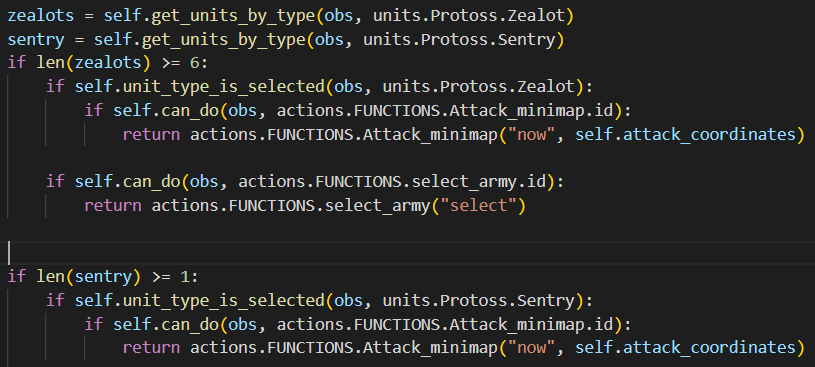
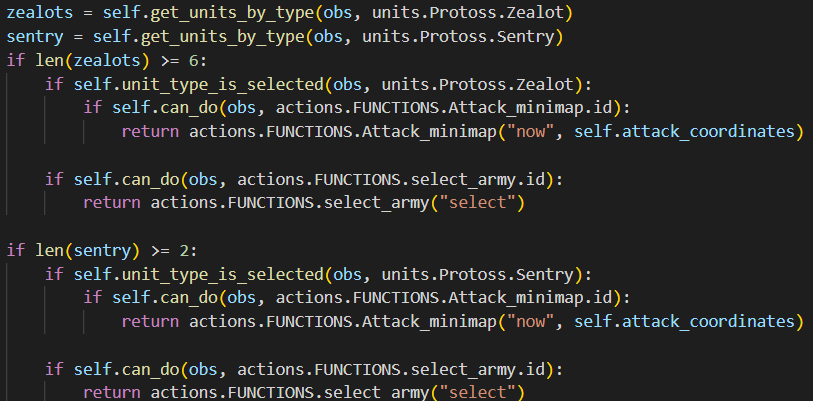
Ready

Changed region(s): [[0.0, 0.0, 1.0, 0.3896], [0.0, 0.4196, 1.0, 0.8392], [0.0308, 0.8692, 1.0, 1.0]]

diff --git a/Smart_Protoss.py b/Smart_Protoss.py
@@ -5,15 +5,14 @@ from pysc2.lib import actions, features, units
 from absl import app
 import random
 
-
 class Protoss_Agent(base_agent.BaseAgent):
 
-    def __init__(self):
+    def __init__(self):                                     #Initialize a variable
         super(Protoss_Agent, self).__init__()
         self.first_pylon = None
         self.attack_coordinates = None
 
-    def unit_type_is_selected(self, obs, unit_type):
+    def unit_type_is_selected(self, obs, unit_type):        #simply sintax of unit type selected check
         if (len(obs.observation.single_select) > 0 and obs.observation.single_select[0].unit_type == unit_type):
             return True
 
@@ -22,16 +21,16 @@ class Protoss_Agent(base_agent.BaseAgent):
 
         return False
 
-    def get_units_by_type(self, obs, unit_type):
+    def get_units_by_type(self, obs, unit_type):            #simply sintax of unit selection by type
         return [unit for unit in obs.observation.feature_units if unit.unit_type == unit_type]
 
-    def can_do(self, obs, action):
+    def can_do(self, obs, action):                          #simply sintax of available actions check
         return action in obs.observation.available_actions
 
     def step(self, obs):
         super(Protoss_Agent, self).step(obs)
 
-        if obs.first():
+        if obs.first():                                     #Observes environment and determines enemy locations
             player_y, player_x = (obs.observation.feature_minimap.player_relative == features.PlayerRelative.SELF).nonzero()
             xmean = player_x.mean()
             ymean = player_y.mean()
@@ -46,7 +45,7 @@ class Protoss_Agent(base_agent.BaseAgent):
         minerals = obs.observation.player.minerals
         vespene = obs.observation.player.vespene
         
-        #Attack
+        #Attacking
         zealots = self.get_units_by_type(obs, units.Protoss.Zealot)
         sentry = self.get_units_by_type(obs, units.Protoss.Sentry)
         if len(zealots) >= 6:
@@ -57,8 +56,7 @@ class Protoss_Agent(base_agent.BaseAgent):
             if self.can_do(obs, actions.FUNCTIONS.select_army.id):
                 return actions.FUNCTIONS.select_army("select")
         
-        
-        if len(sentry) >= 1:
+        if len(sentry) >= 2:
             if self.unit_type_is_selected(obs, units.Protoss.Sentry):
                 if self.can_do(obs, actions.FUNCTIONS.Attack_minimap.id):
                     return actions.FUNCTIONS.Attack_minimap("now", self.attack_coordinates)
@@ -66,8 +64,7 @@ class Protoss_Agent(base_agent.BaseAgent):
             if self.can_do(obs, actions.FUNCTIONS.select_army.id):
                 return actions.FUNCTIONS.select_army("select")
 
-
-        #Pylon
+        #Cybernetics Core Creation
         gates = self.get_units_by_type(obs, units.Protoss.Gateway)
 
         cybernetic = self.get_units_by_type(obs, units.Protoss.CyberneticsCore)
@@ -77,7 +74,8 @@ class Protoss_Agent(base_agent.BaseAgent):
                     x = random.randint(0, 83)
                     y = random.randint(0, 83)
                     return actions.FUNCTIONS.Build_CyberneticsCore_screen("now", (x, y))
-          
+
+        #Pylons Creation
         pylons = self.get_units_by_type(obs, units.Protoss.Pylon)
         if len(pylons) < 5 and minerals >= 100:
             if self.unit_type_is_selected(obs, units.Protoss.Probe):
@@ -86,14 +84,15 @@ class Protoss_Agent(base_agent.BaseAgent):
                     y = random.randint(0, 83)
                     return actions.FUNCTIONS.Build_Pylon_screen("now", (x, y))
 
-        #Gateways
+        #Gateways Creation
         if len(gates) < 2 and minerals >= 150:
             if self.unit_type_is_selected(obs, units.Protoss.Probe):
                 if self.can_do(obs, actions.FUNCTIONS.Build_Gateway_screen.id):
                     x = random.randint(0, 83)
                     y = random.randint(0, 83)
                     return actions.FUNCTIONS.Build_Gateway_screen("now", (x, y))
-
+        
+        #Assimilators Creation
         gas = self.get_units_by_type(obs, units.Protoss.Assimilator)
         if len(gates) == 2 and minerals >= 75 and len(gas) == 0:
             if self.unit_type_is_selected(obs, units.Protoss.Probe):
@@ -102,7 +101,7 @@ class Protoss_Agent(base_agent.BaseAgent):
                     y = random.randint(0, 83)
                 return actions.FUNCTIONS.Build_Assimilator_screen("now", (x, y))
         
-        #Units                   
+        #Train Zealots and Sentrys                   
         if len(gates) == 2 and minerals >= 100:
             if self.unit_type_is_selected(obs, units.Protoss.Gateway):
                 zealots = self.get_units_by_type(obs, units.Protoss.Zealot)
@@ -116,7 +115,7 @@ class Protoss_Agent(base_agent.BaseAgent):
         if len(cybernetic) == 1 and vespene >= 100 and minerals >= 50:
             if self.unit_type_is_selected(obs, units.Protoss.Gateway):
                 sentry = self.get_units_by_type(obs, units.Protoss.Sentry)
-                if len(sentry) <= 1:
+                if len(sentry) <= 2:
                     if self.can_do(obs, actions.FUNCTIONS.Train_Sentry_quick.id):
                         return actions.FUNCTIONS.Train_Sentry_quick("now")
 
@@ -124,10 +123,7 @@ class Protoss_Agent(base_agent.BaseAgent):
             return actions.FUNCTIONS.select_point("select_all_type", (z.x, z.y))
             
         #Select Probe units 
-
-        probes = self.get_units_by_type(obs, units.Protoss.Probe)
-        print(len(probes))
-        
+        probes = self.get_units_by_type(obs, units.Protoss.Probe)        
         if len(probes) > 0:
             probe = random.choice(probes)
             return actions.FUNCTIONS.select_point("select_all_type", (probe.x, probe.y))
@@ -142,12 +138,12 @@ def main(unused):
             with sc2_env.SC2Env(
                 map_name ="Simple64",                                                       #Game map
                 players=[sc2_env.Agent(sc2_env.Race.protoss),                               #Agent race
-                         sc2_env.Bot(sc2_env.Race.random, sc2_env.Difficulty.easy)],   #Difficulty
+                         sc2_env.Bot(sc2_env.Race.random, sc2_env.Difficulty.easy)],        #Difficulty
                 agent_interface_format = features.AgentInterfaceFormat(
                     feature_dimensions = features.Dimensions(screen=84, minimap=64),        #Screen resolution
                     use_feature_units = True
                 ),
-                step_mul = 16,                                                               #Game Speed
+                step_mul = 16,                                                              #Game Speed
                 game_steps_per_episode = 0,                                                 #Game length
                 visualize=True
             ) as env:
@@ -169,5 +165,3 @@ def main(unused):
 
 if __name__ == "__main__":
     app.run(main)
-
-    #https://a01701249.medium.com/pysc2-protoss-sentry-and-zealot-agent-87e0f0f1388f

diff --git a/README.md b/README.md
@@ -66,11 +66,11 @@ These functions are complementary for the agent and will make its life more easy
 
 3. get_units_by_type returns a list with instances of the input unit or units.
 
-![U_Type](./Images/Get_units_type.png)
+![Get_U](./Images/Get_units_type.png)
 
 4. can_do is a very important function, because it will check if the input action is available or not.
 
-![U_Type](./Images/Can_do.png)
+![Can_do](./Images/Can_do.png)
 
 ### 6. Completing Step
 As its name inquires, we´ll be completing our Step function
@@ -80,11 +80,20 @@ Now that we know were we are, it's easy to know where the enemy is, so we just s
 
 Resource gathering and knowledge of how much of them we have is important for creating almost everything, so we simply define that variables to obtain a counter of minerals and vespene's.
 
-![Imports](./Images/Step_1.png)
+![Steps](./Images/Step_1.png)
 
-#### Pylons
+### Probes
+> Used to gather resources and Warp Protoss structures.
 
-![Imports](./Images/Pylon.jpg)
+![Probe](./Images/Probe.jpg)
+
+I would consider Probes to be the most important unit in the game, withouth them we cant do anything. And in order for us to do anything, we need to verify that they are selected.
+
+![Probe_code](./Images/Probes_code.png)
+
+### Pylons
+
+![Pylon](./Images/Pylon.jpg)
 
 Because we are playing as Protoss, we'll need to use Pylons.
 The game describes Pylons as: 
@@ -92,76 +101,77 @@ The game describes Pylons as:
 
 Basically, Pylons are power outlets, indispensable for more powerfull structures.
 
-![Imports](./Images/Pylon_code.png)
+![Pylon_code](./Images/Pylon_code.png)
 
 I like the number 5, so until we have 5 built Pylons and have more than 100 minerals (Which is the price of building a Pylon), we'll check if a Prove is selected in order for it to being able to Warp Pylons. If we have it selected, our random function comes in handy to produce possible values in which the Pylon will be warped. 
 
 
-#### Gateways and Assimilators
+### Gateways and Assimilators
 Gateways are described in game as:
 > Warps in Protoss ground units
 
-![Imports](./Images/Gateway.jpg)
+![Gateway](./Images/Gateway.jpg)
 
 While Assimilators are described as:
 > Protoss structure used for harvesting Vespene Gas
 
-![Imports](./Images/Assimilator.jpg)
+![Assimilator](./Images/Assimilator.jpg)
 
-![Imports](./Images/G_A.png)
+![G_A_code](./Images/G_A.png)
 
 gates variable will return a list of Gateway objects. Then, we'll check if we have 2 gateways built and ≥ 150 minerals (Cost of the Gateway). Once we have resources, We check if a Probe is selected in order to Warp the Gateway in a random location.
 
 Nothing changes substancially for warping an Assimilator other than the cost of the minerals for warping it (Should be 75 at least).
 
-#### Cybernetics Core
+### Cybernetics Core
 
-![Imports](./Images/Cy_core.jpg)
+![Cybernetics](./Images/Cy_core.jpg)
 
 In order to use more than just Zealots for attacking the enemy player, we need to build at least one Cybernetics Core.
 The steps are the same as all of the avobe, except the cost to build the Cybernetics Core, wich sould be at least 150 minerals worth.
 
-![Imports](./Images/Cy_code.png)
+![Cybernetics_code](./Images/Cy_code.png)
 
-#### Zealots and Sentrys
+### Zealots and Sentrys
 Now that we have all of our Structures ready, we can start training Zealots and Sentrys.
 
 In game description of Zealots include but its not limitted to:
 > Can attack ground units
 
-![Imports](./Images/Zealot.jpg)
+![Zealot](./Images/Zealot.jpg)
 
 In the other hand, Sentrys are described as:
 > Ergy manipulator units. Can use ForceField, Guardian Shield and Hallucination.
 
-![Imports](./Images/Sentry.jpg)
+![Sentry](./Images/Sentry.jpg)
 
 Pretty cool, right?
 
-![Imports](./Images/Z_S_code.png)
+![Z_S_code](./Images/Z_S_code.png)
 
 We first check for our 2 gateways and that we at least have 100 minerals, we then procede to verify that a gateway is indeed selected, if thats not the case, we select a random gateway. We should limit our zealots to a number that we want, in this case i liked 6 so each gateway will only Warp 6 Zealots.
 
-Same story with the Sentrys but this time, both our Minerals and Vespene will be taken in consideration. Sentrys are cool but we might not need so many of them, so I choose to limit Sentrys to only 1 per Gateway.
+Same story with the Sentrys but this time, both our Minerals and Vespene will be taken in consideration. Sentrys are cool but we might not need so many of them, so I choose to limit Sentrys to only 2 per Gateway.
 
-#### Probes
-> Used to gather resources and Warp Protoss structures.
-
-![Imports](./Images/Probe.jpg)
-
-I would consider Probes to be the most important unit in the game, withouth them we cant do anything. And in order for us to do anything, we need to verify that they are selected.
-
-![Imports](./Images/Probes_code.png)
-
-#### Winning
+### Winning
 Now that we have everything ready, its time to take the ofensive.
 
-![Imports](./Images/Winning.png)
+![Winning](./Images/Winning.png)
 
 To start, we need to make sure we have at least 6 Zealot units trained. If thats the case, we select them and make sure that we can actually send them to attack the enemy.
 
 Story repeats itself with the Sentry, but in this case we only check for 1
 
+### Diagram
+If by any chance, you didnt understood anything that was mentioned above, dont worry, I got you covered.
+
+This Diagram covers how the code works in a simplified way, no need to thank me.
+
+![Diagram](./Images/Diagram.png)
+
+
 ## References
+-  Aboytes, J. P. (2020, November 6). Pysc2 protoss sentry and zealot agent. Medium. https://a01701249.medium.com/pysc2-protoss-sentry-and-zealot-agent-87e0f0f1388f 
 - Bansall, S. (2022, August 22). geeksforgeeks.org. https://www.geeksforgeeks.org/agents-artificial-intelligence/
 - Valdés B. (2019, August 19). Pysc2 install process. YouTube. https://www.youtube.com/watch?v=KYCxZBghVZ8
+- PySC2 - StarCraft II Learning Environment. (2022, November 17). GitHub. https://github.com/deepmind/pysc2
